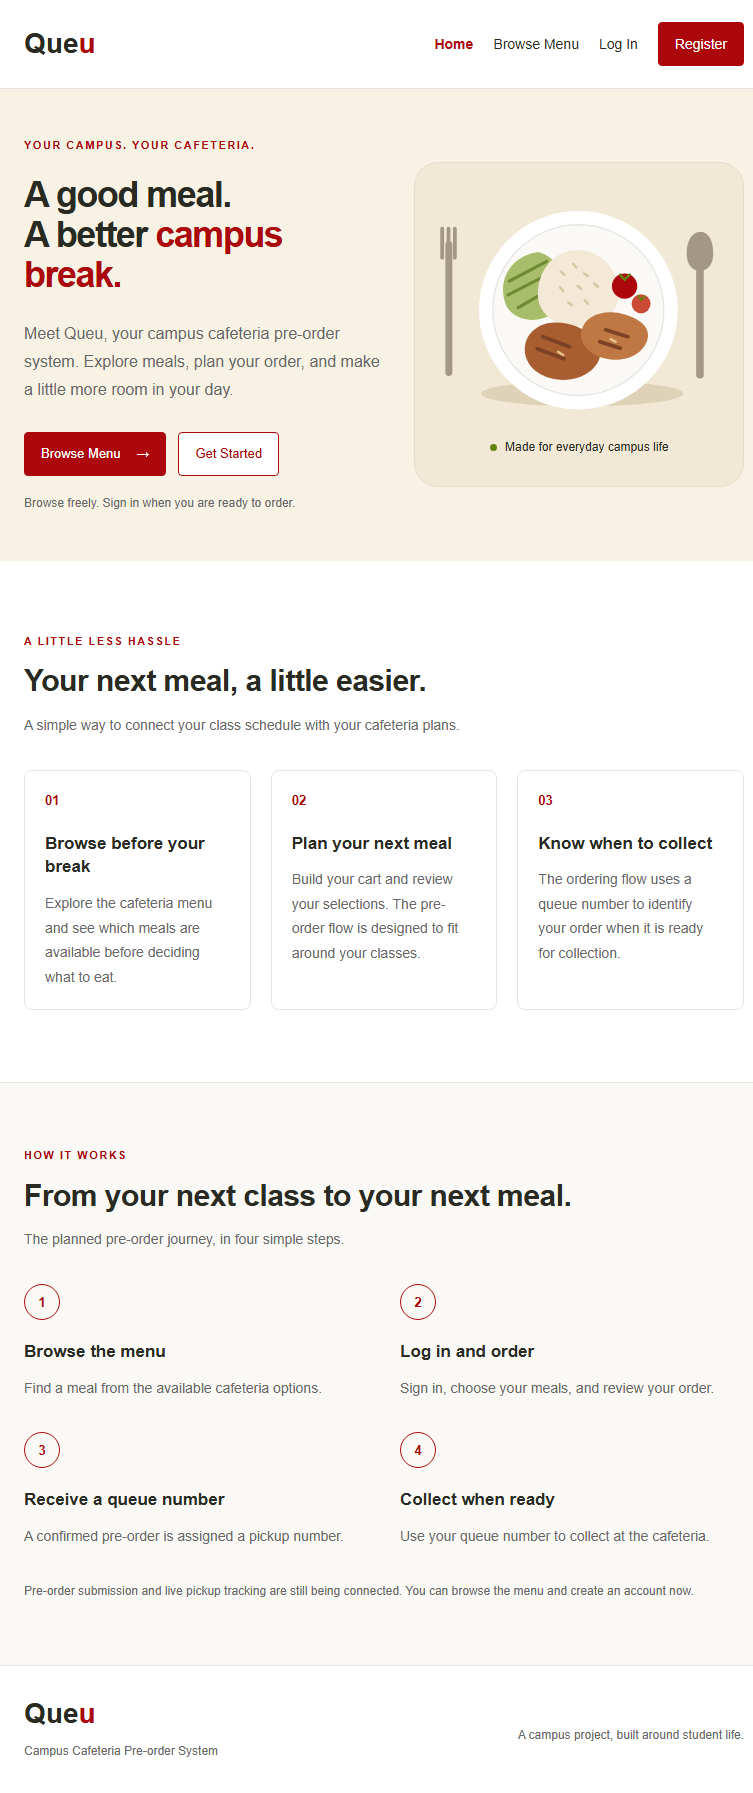
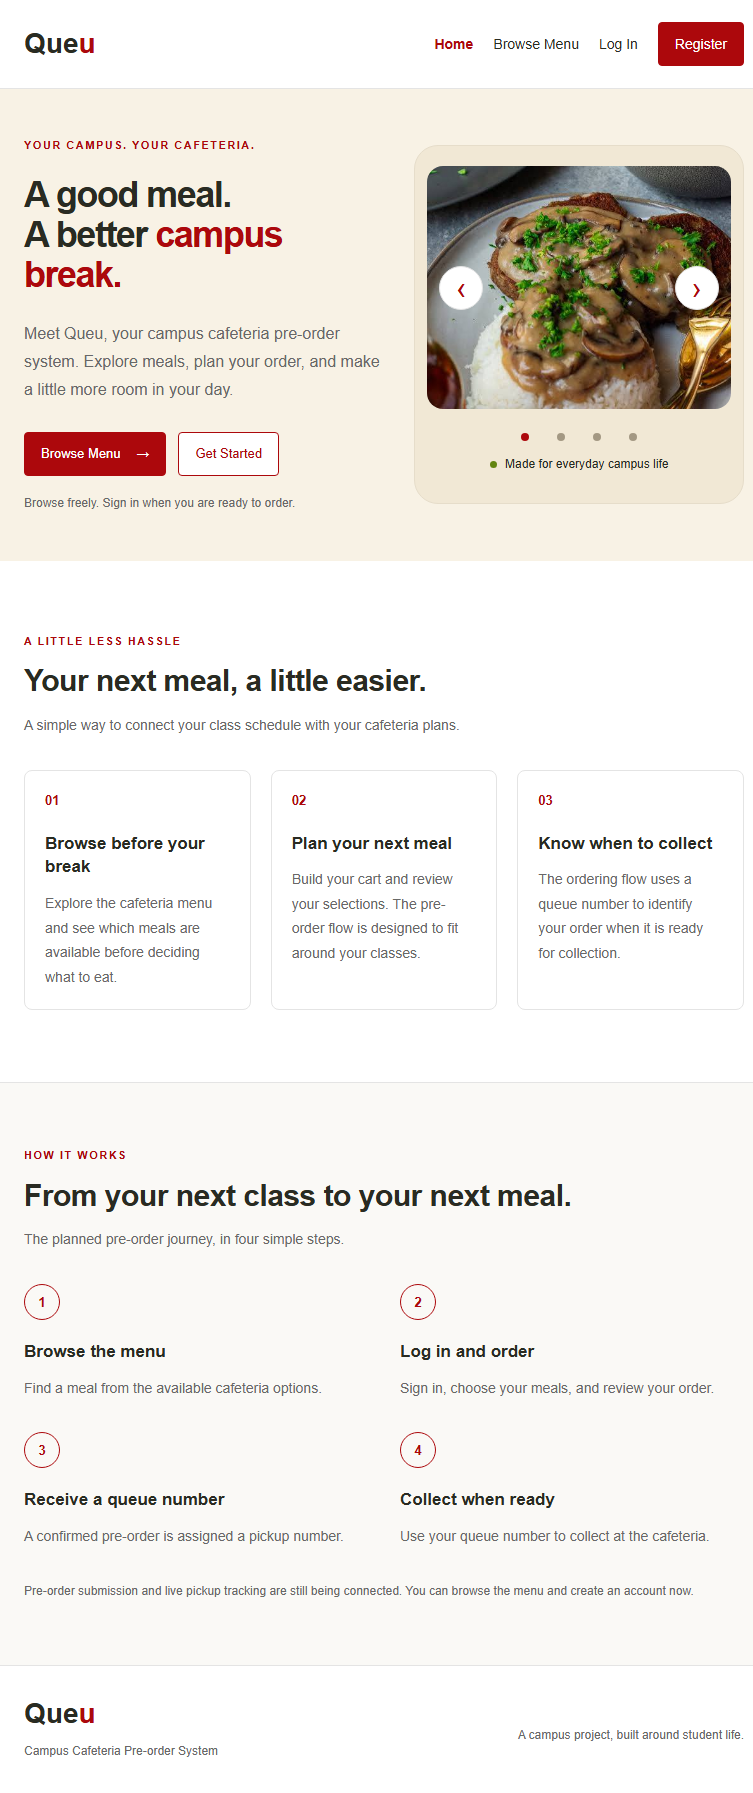
feat: add swipeable landing page meal photos

Changed region(s): [[0.5498, 0.0937, 0.9774, 0.2811]]

diff --git a/frontend/src/components/landing/MealCarousel.jsx b/frontend/src/components/landing/MealCarousel.jsx
@@ -1,0 +1,155 @@
+import { useRef, useState } from 'react'
+
+const photos = [
+  {
+    src: '/image.png',
+    alt: 'Rice topped with burger patties and mushroom gravy',
+  },
+  {
+    src: '/image copy.png',
+    alt: 'Burger patties with fried egg, rice, and fries',
+  },
+  {
+    src: '/image copy 2.png',
+    alt: 'Burger patties with mushroom gravy, rice, and vegetables',
+  },
+  {
+    src: '/image copy 3.png',
+    alt: 'A plate of burger patties, mixed vegetables, and rice',
+  },
+]
+
+export default function MealCarousel() {
+  const [currentPhoto, setCurrentPhoto] = useState(0)
+  const swipeStart = useRef(null)
+
+  function showNextPhoto() {
+    setCurrentPhoto((previous) => (previous + 1) % photos.length)
+  }
+
+  function showPreviousPhoto() {
+    setCurrentPhoto((previous) => {
+      return (previous - 1 + photos.length) % photos.length
+    })
+  }
+
+  function handlePointerDown(event) {
+    if (!event.isPrimary || event.button !== 0) {
+      return
+    }
+
+    swipeStart.current = { x: event.clientX, y: event.clientY }
+    event.currentTarget.setPointerCapture(event.pointerId)
+  }
+
+  function handlePointerUp(event) {
+    if (!swipeStart.current) {
+      return
+    }
+
+    const distanceX = event.clientX - swipeStart.current.x
+    const distanceY = event.clientY - swipeStart.current.y
+    swipeStart.current = null
+
+    if (Math.abs(distanceX) < 50 || Math.abs(distanceX) <= Math.abs(distanceY)) {
+      return
+    }
+
+    if (distanceX < 0) {
+      showNextPhoto()
+    } else {
+      showPreviousPhoto()
+    }
+  }
+
+  function handleKeyDown(event) {
+    if (event.key === 'ArrowRight') {
+      event.preventDefault()
+      showNextPhoto()
+    } else if (event.key === 'ArrowLeft') {
+      event.preventDefault()
+      showPreviousPhoto()
+    }
+  }
+
+  return (
+    <figure
+      className="landing-visual"
+      role="region"
+      aria-roledescription="carousel"
+      aria-label="Meal photos"
+      tabIndex={0}
+      onKeyDown={handleKeyDown}
+    >
+      <div className="meal-carousel-frame">
+        <div
+          className="meal-carousel-viewport"
+          onPointerDown={handlePointerDown}
+          onPointerUp={handlePointerUp}
+          onPointerCancel={() => {
+            swipeStart.current = null
+          }}
+        >
+          <div
+            className="meal-carousel-track"
+            style={{ transform: `translateX(-${currentPhoto * 100}%)` }}
+          >
+            {photos.map((photo, index) => (
+              <div
+                className="meal-carousel-slide"
+                key={photo.src}
+                aria-hidden={index !== currentPhoto}
+              >
+                <img
+                  src={photo.src}
+                  alt={photo.alt}
+                  width="600"
+                  height="480"
+                  draggable={false}
+                />
+              </div>
+            ))}
+          </div>
+        </div>
+
+        <button
+          className="meal-carousel-arrow meal-carousel-arrow--previous"
+          type="button"
+          aria-label="Previous photo"
+          onClick={showPreviousPhoto}
+        >
+          <span aria-hidden="true">‹</span>
+        </button>
+        <button
+          className="meal-carousel-arrow meal-carousel-arrow--next"
+          type="button"
+          aria-label="Next photo"
+          onClick={showNextPhoto}
+        >
+          <span aria-hidden="true">›</span>
+        </button>
+      </div>
+
+      <div className="meal-carousel-dots" role="group" aria-label="Choose a photo">
+        {photos.map((photo, index) => (
+          <button
+            key={photo.src}
+            className="meal-carousel-dot"
+            type="button"
+            aria-label={`Show photo ${index + 1}`}
+            aria-current={index === currentPhoto ? 'true' : undefined}
+            onClick={() => setCurrentPhoto(index)}
+          />
+        ))}
+      </div>
+
+      <span className="sr-only" aria-live="polite" aria-atomic="true">
+        Photo {currentPhoto + 1} of {photos.length}
+      </span>
+      <figcaption>
+        <span className="landing-visual-dot" aria-hidden="true" />
+        Made for everyday campus life
+      </figcaption>
+    </figure>
+  )
+}

diff --git a/frontend/src/pages/LandingPage.css b/frontend/src/pages/LandingPage.css
@@ -139,7 +139,100 @@
 .landing-visual img {
   display: block;
   width: 100%;
-  height: auto;
+  height: 100%;
+  object-fit: cover;
+  user-select: none;
+}
+
+.meal-carousel-frame {
+  position: relative;
+}
+
+.meal-carousel-viewport {
+  overflow: hidden;
+  border-radius: 16px;
+  touch-action: pan-y pinch-zoom;
+  cursor: grab;
+}
+
+.meal-carousel-viewport:active {
+  cursor: grabbing;
+}
+
+.meal-carousel-track {
+  display: flex;
+  transition: transform 300ms ease;
+}
+
+.meal-carousel-slide {
+  flex: 0 0 100%;
+  min-width: 0;
+  aspect-ratio: 5 / 4;
+}
+
+.meal-carousel-arrow {
+  position: absolute;
+  top: 50%;
+  display: grid;
+  place-items: center;
+  width: 44px;
+  height: 44px;
+  padding: 0;
+  border: 1px solid #e4e4e4;
+  border-radius: 50%;
+  background: white;
+  color: #ac080c;
+  font-size: 30px;
+  line-height: 1;
+  transform: translateY(-50%);
+}
+
+.meal-carousel-arrow:hover {
+  background: #f8f2e5;
+}
+
+.meal-carousel-arrow--previous {
+  left: 12px;
+}
+
+.meal-carousel-arrow--next {
+  right: 12px;
+}
+
+.meal-carousel-dots {
+  display: flex;
+  justify-content: center;
+  gap: 4px;
+  margin: 12px 0 4px;
+}
+
+.meal-carousel-dot {
+  display: grid;
+  place-items: center;
+  width: 32px;
+  height: 32px;
+  padding: 0;
+  border: 0;
+  border-radius: 50%;
+  background: transparent;
+}
+
+.meal-carousel-dot::after {
+  content: '';
+  width: 8px;
+  height: 8px;
+  border-radius: 50%;
+  background: #a39883;
+}
+
+.meal-carousel-dot[aria-current='true']::after {
+  background: #ac080c;
+}
+
+@media (prefers-reduced-motion: reduce) {
+  .meal-carousel-track {
+    transition: none;
+  }
 }
 
 .landing-visual figcaption {

diff --git a/frontend/src/pages/LandingPage.jsx b/frontend/src/pages/LandingPage.jsx
@@ -1,3 +1,4 @@
+import MealCarousel from '../components/landing/MealCarousel'
 import './LandingPage.css'
 
 const benefits = [
@@ -119,18 +120,7 @@ export default function LandingPage({ onNavigate }) {
               </p>
             </div>
 
-            <figure className="landing-visual">
-              <img
-                src="/cafeteria-meal.svg"
-                alt="Illustration of a cafeteria meal with rice, chicken, and vegetables"
-                width="480"
-                height="400"
-              />
-              <figcaption>
-                <span className="landing-visual-dot" aria-hidden="true" />
-                Made for everyday campus life
-              </figcaption>
-            </figure>
+            <MealCarousel />
           </div>
         </section>
 

diff --git a/frontend/docs/landing-page.md b/frontend/docs/landing-page.md
@@ -9,8 +9,10 @@ The landing page loads without a login, backend server, database, or order/queue
   workflow, and project footer. Repeated cards use arrays and `map`.
 - `src/pages/LandingPage.css`: scoped styles using the existing colors, Arial,
   shared button classes, Flexbox, Grid, and media queries. No `:root` variables.
-- `public/cafeteria-meal.svg`: a local meal illustration. It is not a menu item,
-  price, or availability record.
+- `src/components/landing/MealCarousel.jsx`: displays four user-provided local
+  meal photos with touch swipe, mouse drag, previous/next arrows, slide dots, and
+  left/right keyboard controls. It uses `useState` and `useRef`, with no new library.
+  The photos are hero visuals, not menu or availability records.
 - `src/App.jsx`: maps `/` to the landing page and makes `/menu` public using the
   existing navigation approach. React Router is not installed or added.
 - `CafeteriaLayout.jsx`: includes Home and displays Log in for public visitors.
@@ -39,7 +41,10 @@ authentication, checkout submission, queue generation, APIs, or database behavio
 - `npm run lint`: passed.
 - `npm run build`: passed.
 - Production-build browser checks passed at 1280×900, 768×1024, 390×844, and
-  320×700: no horizontal overflow; illustration loaded; all sections rendered.
+  320×700: no horizontal overflow; all four photos loaded; all sections rendered.
+- Carousel arrows, first/last wraparound, dots, keyboard controls, mouse drag, and
+  real touch swipe passed browser checks. Reduced-motion preference removes the
+  slide transition. Slides change manually; there is no automatic timer.
 - Landing made zero API requests. No order/queue calls or order submissions were
   made during the browser checks.
 - Home, Browse Menu, Log In, Register, Get Started, account brand links, and
